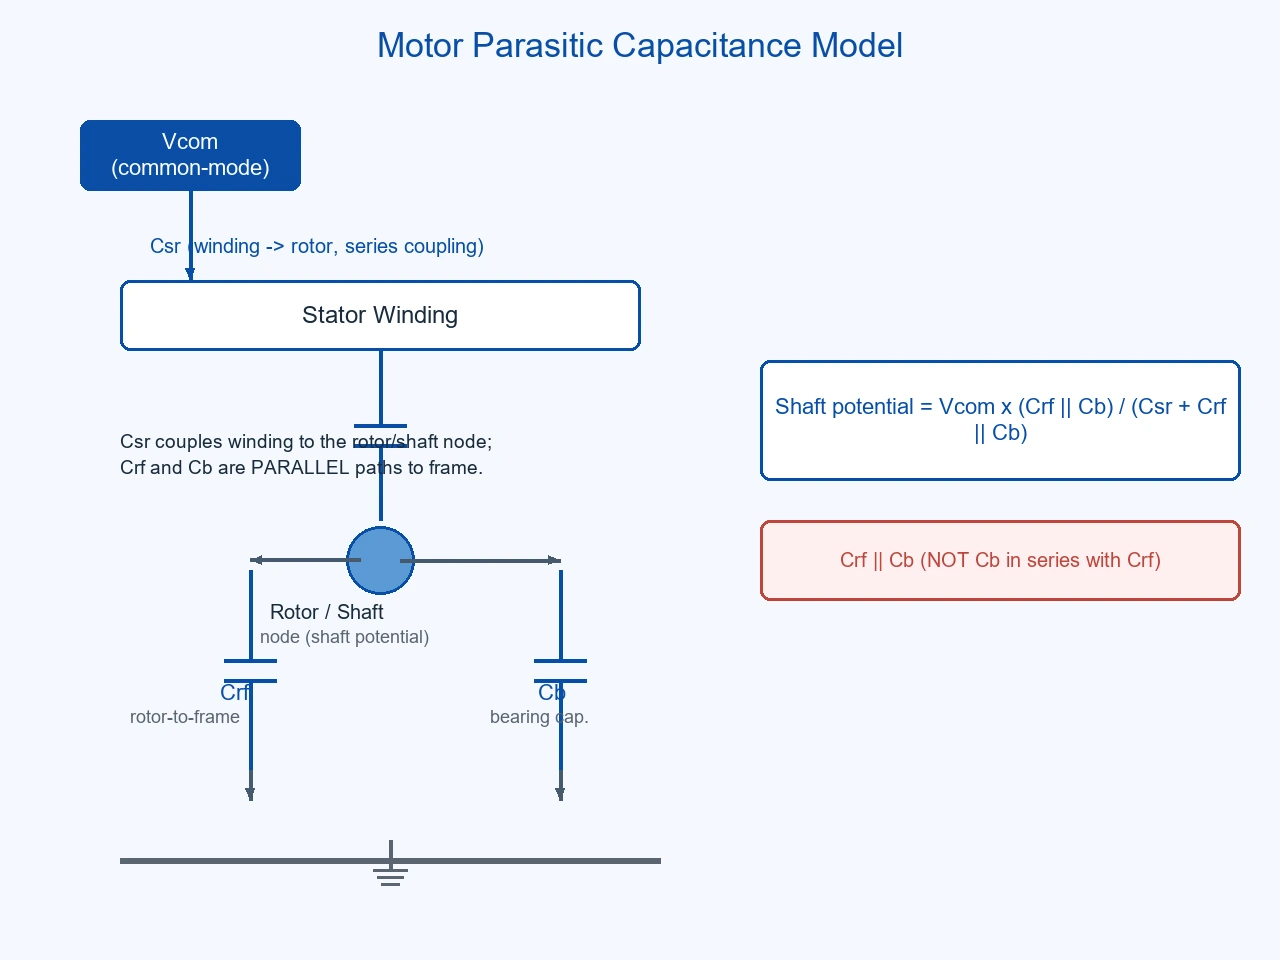
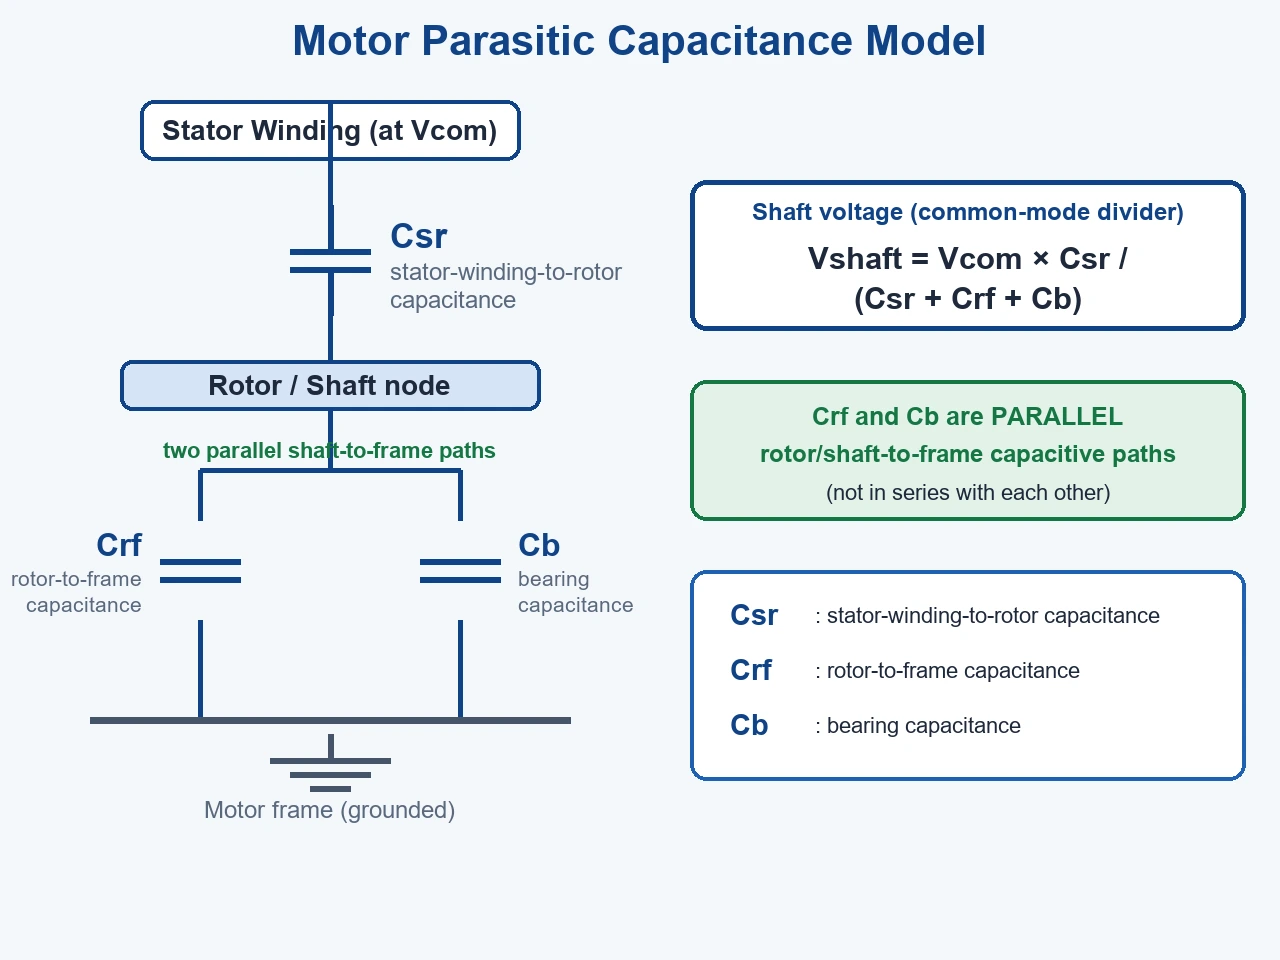
fix(art1): correct capacitance-model formula and make damage diagram non-deterministic
- IMAGE-02: replace wrong formula Vcom x (Crf||Cb)/(Csr+Crf||Cb) with
  Vshaft = Vcom x Csr / (Csr + Crf + Cb); label Csr as
  stator-winding-to-rotor capacitance (no 'series coupling'); keep
  Crf and Cb as parallel rotor/shaft-to-frame paths
- IMAGE-01: tighter layout, larger text, permissive note; caption no
  longer claims the figure starts from the DC bus
- IMAGE-03: EDM vs circulating distinction and mitigation banner kept;
  larger labels, less dense annotations
- IMAGE-04: redesigned as possible damage patterns (micropitting /
  frosting / fluting as alternatives, not a mandatory sequence);
  moved out of section 7 (risk factors) into section 5 (bearing current)
- captions updated in EN and ZH; article body text unchanged

diff --git a/src/data/mock/articles.ts b/src/data/mock/articles.ts
@@ -86,7 +86,7 @@ export const articles: ArticleRecord[] = [
             type: "image",
             src: "/images/articles/vfd-shaft-voltage-mechanism.webp",
             alt: "Diagram of how VFD PWM switching creates common-mode voltage that couples through motor parasitic capacitance to a shaft potential and discharges across the bearing",
-            caption: "The shaft-voltage path in a VFD-fed motor, from DC bus to bearing discharge",
+            caption: "How PWM switching in a VFD can create shaft voltage and electrical bearing discharge.",
             width: 1600,
             height: 900,
           },
@@ -137,8 +137,8 @@ export const articles: ArticleRecord[] = [
           {
             type: "image",
             src: "/images/articles/vfd-motor-parasitic-capacitance-model.webp",
-            alt: "Equivalent circuit of motor parasitic capacitances: Csr couples the stator winding in series to the rotor/shaft node, while Crf and Cb are parallel paths from that node to the grounded frame",
-            caption: "Csr is the series coupling element; Crf and Cb form a parallel path to frame (corrected topology)",
+            alt: "Equivalent circuit of motor parasitic capacitances: Csr (stator-winding-to-rotor) couples the winding to the rotor/shaft node, while Crf (rotor-to-frame) and Cb (bearing) are parallel paths from that node to the grounded frame",
+            caption: "Csr (stator-winding-to-rotor), with Crf and Cb as parallel paths to frame. Vshaft = Vcom × Csr / (Csr + Crf + Cb).",
             width: 1280,
             height: 960,
           },
@@ -167,6 +167,14 @@ export const articles: ArticleRecord[] = [
           {
             type: "paragraph",
             text: "There is no single voltage value above which every bearing will fail. The withstand of the film depends on film thickness, speed, temperature, load, lubricant condition, and the waveform shape, not on a fixed threshold. Claiming a universal rule such as install a grounding ring above X volts would be technically unsound; the correct approach evaluates the motor, the drive, and the measured waveform together.",
+          },
+          {
+            type: "image",
+            src: "/images/articles/electrical-bearing-damage-progression.webp",
+            alt: "Possible bearing damage patterns from repeated electrical discharge: surface damage such as micropitting, frosting, or fluting, which can lead to noise, vibration, and premature bearing failure",
+            caption: "Possible damage patterns from repeated electrical discharge — micropitting, frosting, and fluting are alternative patterns, not a mandatory sequence.",
+            width: 1600,
+            height: 900,
           },
           {
             type: "heading",
@@ -198,14 +206,6 @@ export const articles: ArticleRecord[] = [
           {
             type: "heading",
             text: "7. What Makes Shaft Voltage Problems More Likely?",
-          },
-          {
-            type: "image",
-            src: "/images/articles/electrical-bearing-damage-progression.webp",
-            alt: "Progression from electrical discharge through micropitting, frosting and fluting to noise, vibration and premature bearing failure",
-            caption: "Repeated discharge progresses from micro-pits to fluting",
-            width: 1600,
-            height: 900,
           },
           {
             type: "paragraph",
@@ -319,7 +319,7 @@ export const articles: ArticleRecord[] = [
             type: "image",
             src: "/images/articles/vfd-shaft-voltage-mechanism.webp",
             alt: "示意图：变频驱动器 PWM 开关如何产生共模电压，经电机寄生电容耦合形成轴电位，并穿过轴承放电",
-            caption: "变频供电电机中从直流母线到轴承放电的轴电压形成路径",
+            caption: "变频器 PWM 开关如何产生轴电压并引发轴承放电。",
             width: 1600,
             height: 900,
           },
@@ -370,8 +370,8 @@ export const articles: ArticleRecord[] = [
           {
             type: "image",
             src: "/images/articles/vfd-motor-parasitic-capacitance-model.webp",
-            alt: "电机寄生电容等效电路：Csr 将定子绕组串联耦合到转子/轴节点，Crf 与 Cb 则是从该节点到接地机座的并联路径",
-            caption: "Csr 为串联耦合元件，Crf 与 Cb 构成到机座的并联路径（已修正拓扑）",
+            alt: "电机寄生电容等效电路：Csr（定子绕组到转子）将绕组耦合至转子/轴节点，Crf（转子到机座）与 Cb（轴承）为该节点到接地机座的并联路径",
+            caption: "Csr（定子绕组到转子），Crf 与 Cb 为到机座的并联路径。Vshaft = Vcom × Csr / (Csr + Crf + Cb)。",
             width: 1280,
             height: 960,
           },
@@ -400,6 +400,14 @@ export const articles: ArticleRecord[] = [
           {
             type: "paragraph",
             text: "不存在一个统一的电压阈值，超过它轴承就必然失效。油膜的耐受能力取决于油膜厚度、转速、温度、载荷、润滑状态与波形形状，而非某个固定数值。宣称超过 X 伏就必须安装接地环这类普适规则在技术上站不住脚；正确做法是将电机、变频器与实际测得波形一并评估。",
+          },
+          {
+            type: "image",
+            src: "/images/articles/electrical-bearing-damage-progression.webp",
+            alt: "反复电气放电可能造成的轴承损伤形态：微点蚀、霜化或搓板纹等表面损伤，并可能导致噪声、振动与轴承过早失效",
+            caption: "反复放电可能造成的损伤形态——微点蚀、霜化、搓板纹为可选形态，并非必然的先后顺序。",
+            width: 1600,
+            height: 900,
           },
           {
             type: "heading",
@@ -431,14 +439,6 @@ export const articles: ArticleRecord[] = [
           {
             type: "heading",
             text: "7. 哪些因素会提高轴电压风险",
-          },
-          {
-            type: "image",
-            src: "/images/articles/electrical-bearing-damage-progression.webp",
-            alt: "从轴承放电经微点蚀、霜化、搓板纹到噪声振动及过早失效的演进",
-            caption: "反复放电由微点蚀逐步发展为搓板纹",
-            width: 1600,
-            height: 900,
           },
           {
             type: "paragraph",
